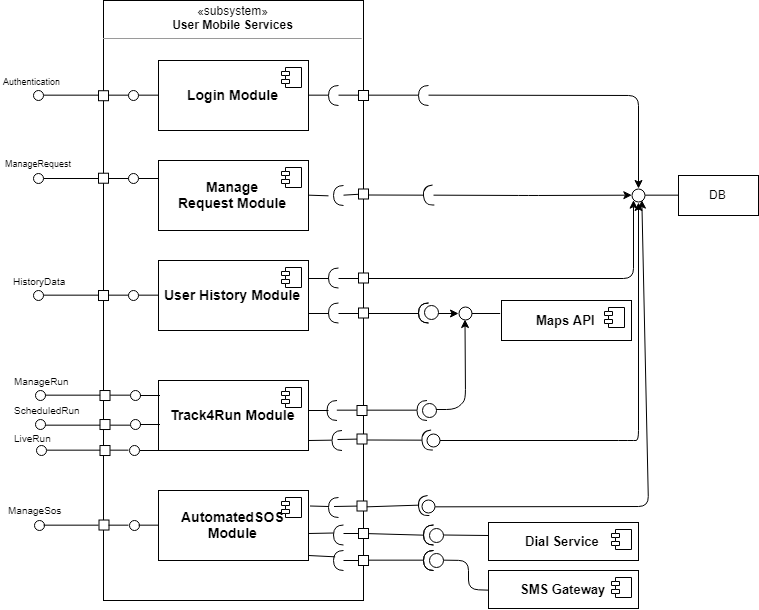
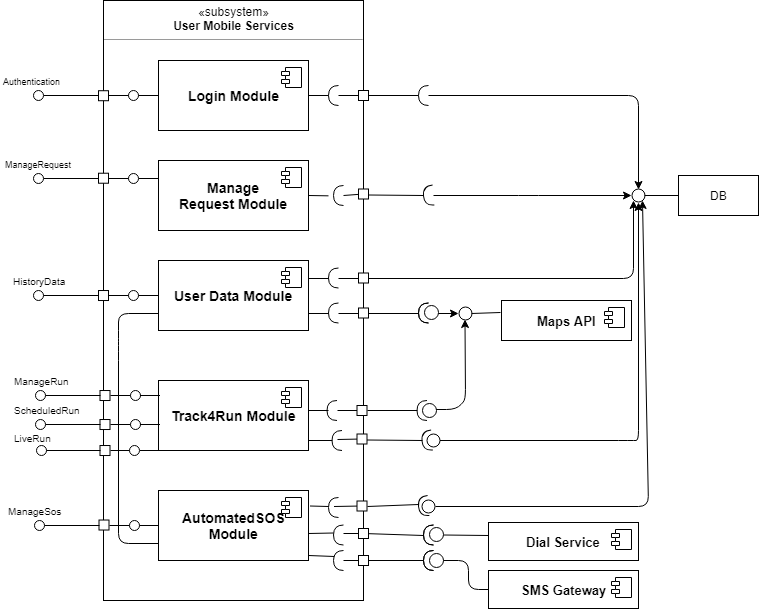
Updates from ShareLaTeX

diff --git a/DD/RequirementsTraceability.tex b/DD/RequirementsTraceability.tex
@@ -1,1 +1,108 @@
 \chapter{Requirements Traceability}
+ In this section is shown the mapping between the requirements stated in the RASD document and the component modules defined in this paper.
+\\ \\
+ \textbf{[G1]The Registered User can access to the services offered by TrackMe System with a single account.}
+ \begin{itemize}
+ \item Mobile Application: [R1-R2]
+ \item Web Application: [R3-R4]
+\item AutomatedSOS Module: [R5]
+ \end{itemize}\\ \\
+ \textbf{[G2]The Registered User can be recognized by providing his/her username and password.}
+  \begin{itemize}
+
+     \item Login Module (of Mobile Application): [R6] 
+     \item Login Module (of Web Application): [R7]
+ \end{itemize} \\ \\
+ \textbf{[G3.1]Allow a User to manage the accesses to his/her personal data.}
+ \begin{itemize}
+     \item Manage Request Module: [R8-R9-R10]
+ \end{itemize} \\ \\
+ \textbf{[G3.2]Allow a User to visualize his/her actual health parameters and position.}
+\begin{itemize}
+    \item User Data Module: [R11-R12-R13]
+\end{itemize} \\ \\
+ \textbf{[G3.3]Allow a User to visualize his/her past data history.}
+\begin{itemize}
+    \item User Data Module: [R14-R15-R16-R16.1]
+\end{itemize} \\ \\
+\textbf{[G3.4]Allow a Third Party to send an authorization request to a User for
+the access to the his/her data.}
+\begin{itemize}
+\item Request Module:[R17-R18-R19]
+    \item  Manage Request Module: [R20]
+\end{itemize} \\ \\
+\textbf{[G3.4.1]Allow a Third Party to request the latest available data of a User.}
+\begin{itemize}
+\item Data Module:[R21]
+   
+    \end{itemize} \\ \\
+    \textbf{[G3.4.2]Allow a Third Party to request a subscription to the data of a
+Users.}
+\begin{itemize}
+\item Request Module:[R22]
+    \item  Manage Request Module: [R20]
+    \item Data Module : [R23]
+\end{itemize} \\ \\
+\textbf{[G3.5]Allow a Third Party to request anonymized data of a set of Users.}
+\begin{itemize}
+\item Request Module: [R24-R25]
+ 
+    \item Data Module : [R26]
+\end{itemize} \\ \\
+\textbf{[G3.5.1]Allow the Third party to request the latest data of the set of Users.}
+\begin{itemize}
+  \item Data Module : [R27]
+\end{itemize} \\ \\
+\textbf{[G3.5.2] Allow a Third Party to request a subscription to the data of the
+set of Users.}
+\begin{itemize}
+\item Request Module:[R28]
+   
+    \item Data Module : [R29]
+\end{itemize} \\ \\
+\textbf{[G3.6] Allow a Third Party to visualize the available data through useful
+statistics.}
+\begin{itemize}
+  \item Data Module : [R30]
+\end{itemize} \\ \\
+\textbf{[G4.1] NHS is alerted when the User gets in a critical state.}
+\begin{itemize}
+  \item AutomatedSOS Module : [R31-R32-R33]
+\end{itemize} \\ \\
+\textbf{[G4.2]Allow the User to create a list of contacts to be alerted in case of
+emergency.}
+\begin{itemize}
+  \item AutomatedSOS Module : [R34-R35-R36]
+\end{itemize} \\ \\
+\textbf{[G5.1] Organizer can create a new run.}
+\begin{itemize}
+  \item Track4Run Module : [R37-R38-R39-R40-R41-R42]
+\end{itemize} \\ \\
+\textbf{[G5.2] Allow a User to enroll to a run as participant.}
+\begin{itemize}
+  \item Track4Run Module : [R43-R44-R45]
+\end{itemize} \\ \\
+\textbf{[G5.3]Allow a User to visualize the list of scheduled runs.}
+\begin{itemize}
+  \item Track4Run Module : [R46-R47-R48]
+\end{itemize} \\ \\
+\textbf{[G5.4] Allow a User to visualize the list of live runs.}
+\begin{itemize}
+  \item Track4Run Module : [R49-R50]
+\end{itemize} \\ \\
+\textbf{[G5.5] Allow a User to visualize on a map the positions of the participants
+in a live run.}
+\begin{itemize}
+  \item Track4Run Module : [R51-R52]
+\end{itemize} \\ \\
+
+
+
+
+
+
+
+
+ 
+
+  

diff --git a/DD/ArchitecturalDesign/ComponentView.tex b/DD/ArchitecturalDesign/ComponentView.tex
@@ -24,7 +24,7 @@ The "Web Application" is for the Third parties, which  use the system connecting
     \item The \underline{Request Module} is responsible of
     the requests dispatching: it offers to the Third Party the interfaces to fill out the forms to perform a user or a group request, and  forward them to the database. Among its internal function, it sends a notification to the target user when he/she is the subject of an user request to notify the event, and it performs the security check in case of group request, allowing the group requests only if the matched collected data belong to at least to 1000 individuals.
     
-    \item The \underline{Data Module}  offers to the Third Parties all the functionalities to manage the performed requests, grouped by status (pending, accepted and refused), allows the consulting of the results, and calculates useful statistics on collected data. In case of subscription requests, it is its responsibility to update the Third party with the new data available with the frequency desired. It retrieves the selected data querying the database, that stores all the user records.
+    \item The \underline{Data Module}  offers to the Third Parties all the functionalities to manage the performed requests, grouped by status (pending, accepted and refused), allows the consulting of the results, and calculates useful statistics on collected data. In case of subscription requests, it is its responsibility to update the Third party with the new data available with the frequency desired. It retrieves the selected data querying the database, that stores all the user records. In case of group request, it anonymize the data.
     This module is connected to Maps API to allow the consulting of user location data on an interactive map.
     
     
@@ -48,7 +48,7 @@ The "Web Application" is for the Third parties, which  use the system connecting
     
     
     
-    \item The \underline{User History Module} sends the new user's health and location data as soon as they have been collected by the smartwatch device  to the system database, that stores the records.
+    \item The \underline{User Data Module} sends the new user's health and location data as soon as they have been collected by the smartwatch device  to the system database, that stores the records.
     
     It offers the interface to allow the User to visualize his/her History Data stored in the database, querying it with the time and location setting selected by the user, or performing a manual research. It is connected to the Maps API module to allow the visualization of user location data on an interactive map.
     
